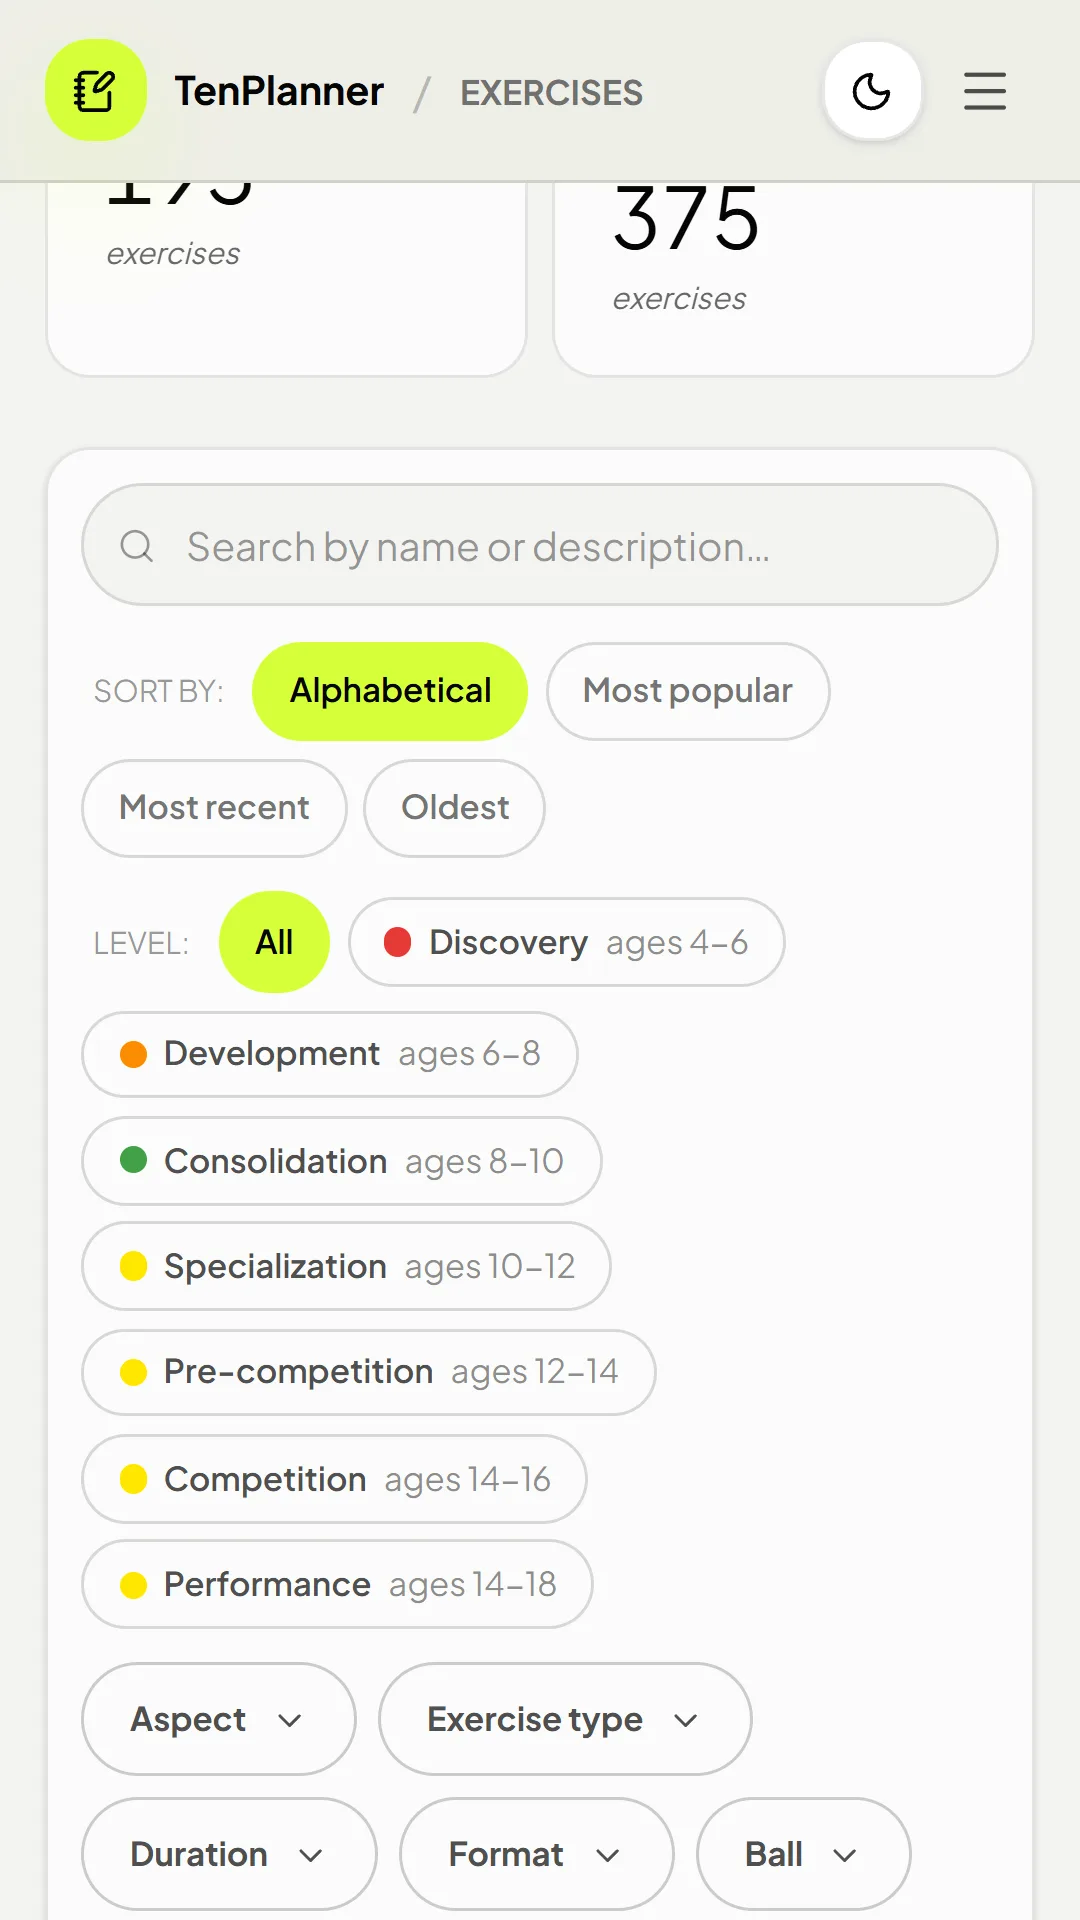
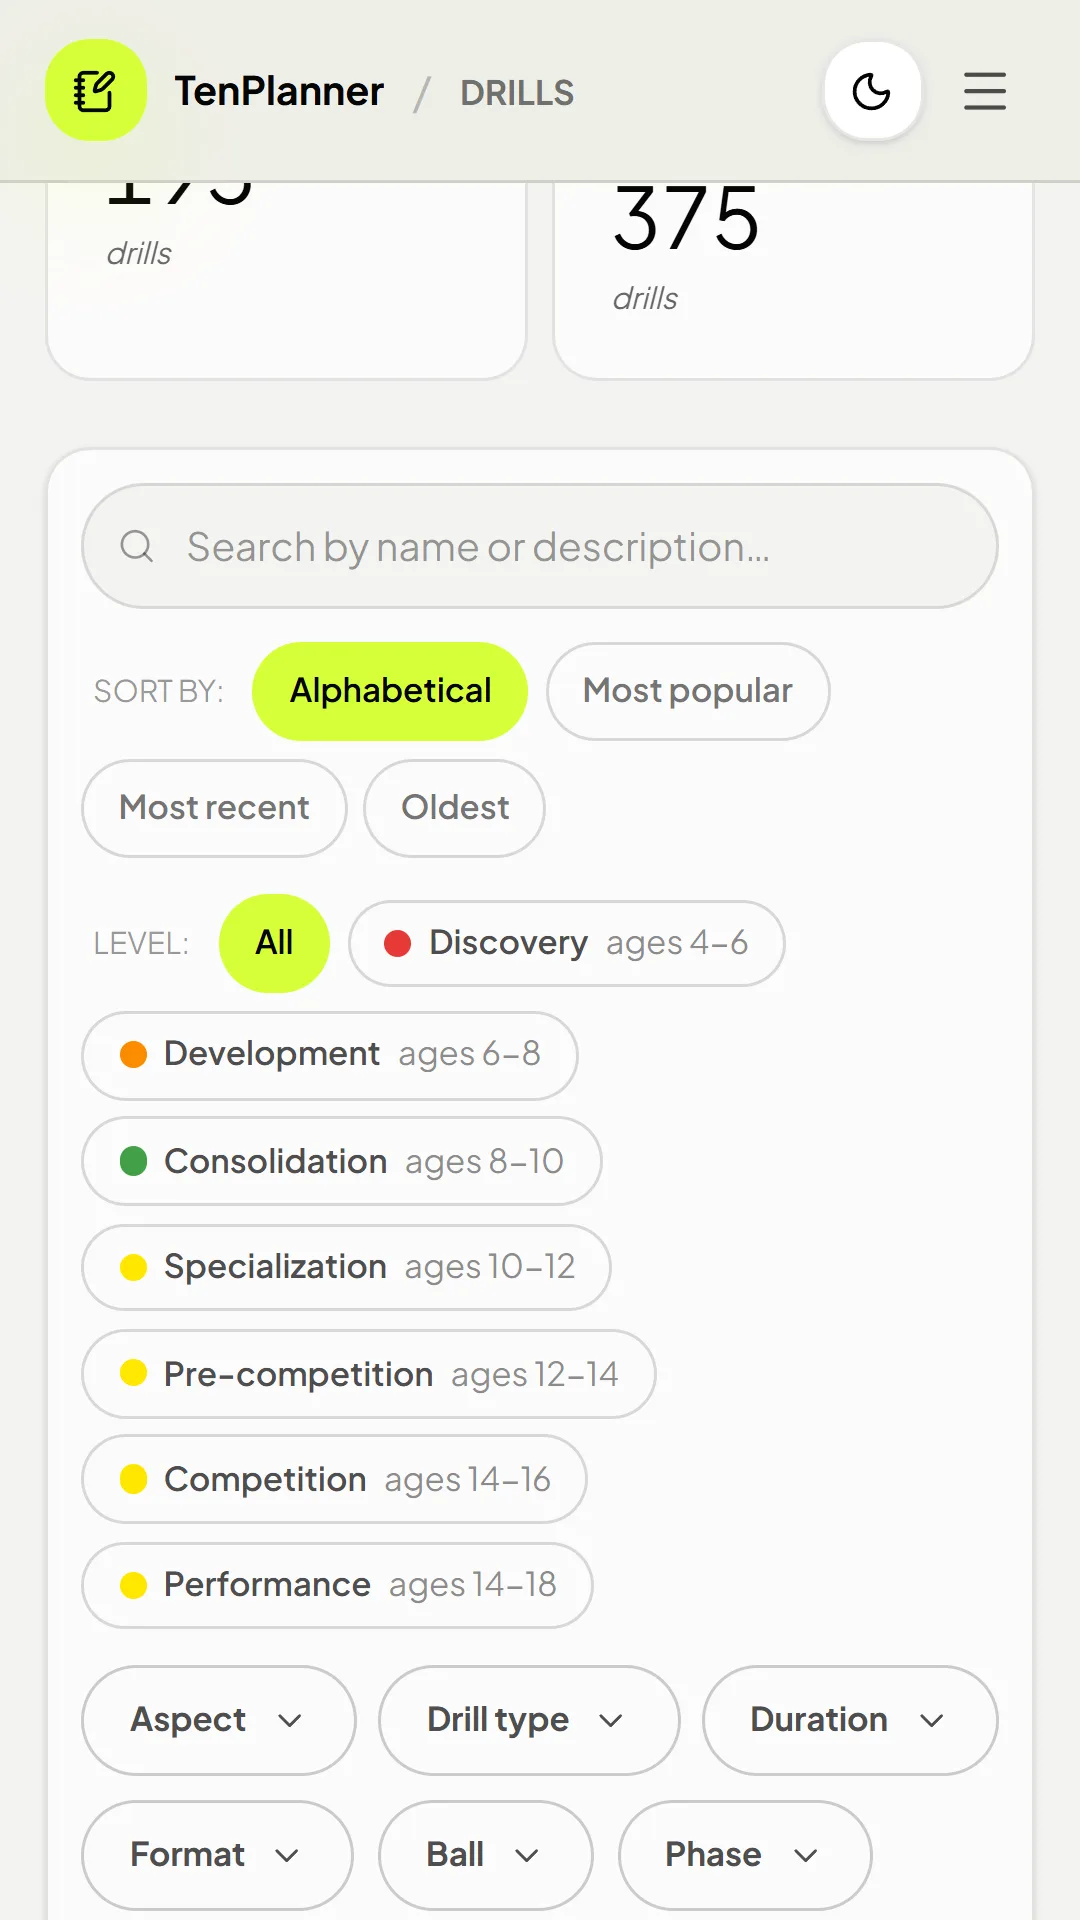
Inglés: "drill/drills" en lugar de "exercise/exercises"
Cambiado en todos los textos en inglés y rehechas las capturas de la portada.

diff --git a/lib/landing-screens.ts b/lib/landing-screens.ts
@@ -52,7 +52,7 @@ export const LANDING_SCREENS: LandingScreen[] = [
 export const LANDING_SCREENS_EN: LandingScreen[] = [
   {
     src: "/landing/app/en/exercise-filters.webp",
-    alt: "Exercise filters by level, aspect, phase and game situation",
+    alt: "Drill filters by level, aspect, phase and game situation",
     label: "Filter by level and goal",
   },
   {

diff --git a/lib/work-mode-labels.ts b/lib/work-mode-labels.ts
@@ -31,7 +31,7 @@ export function workModeOwner(mode: WorkMode): string {
 const SECTION_EN: Record<string, string> = {
   Calendario: "Calendar",
   Clases: "Lessons",
-  Ejercicios: "Exercises",
+  Ejercicios: "Drills",
   Grupos: "Groups",
   Objetivos: "Goals",
   Sesiones: "Sessions",
